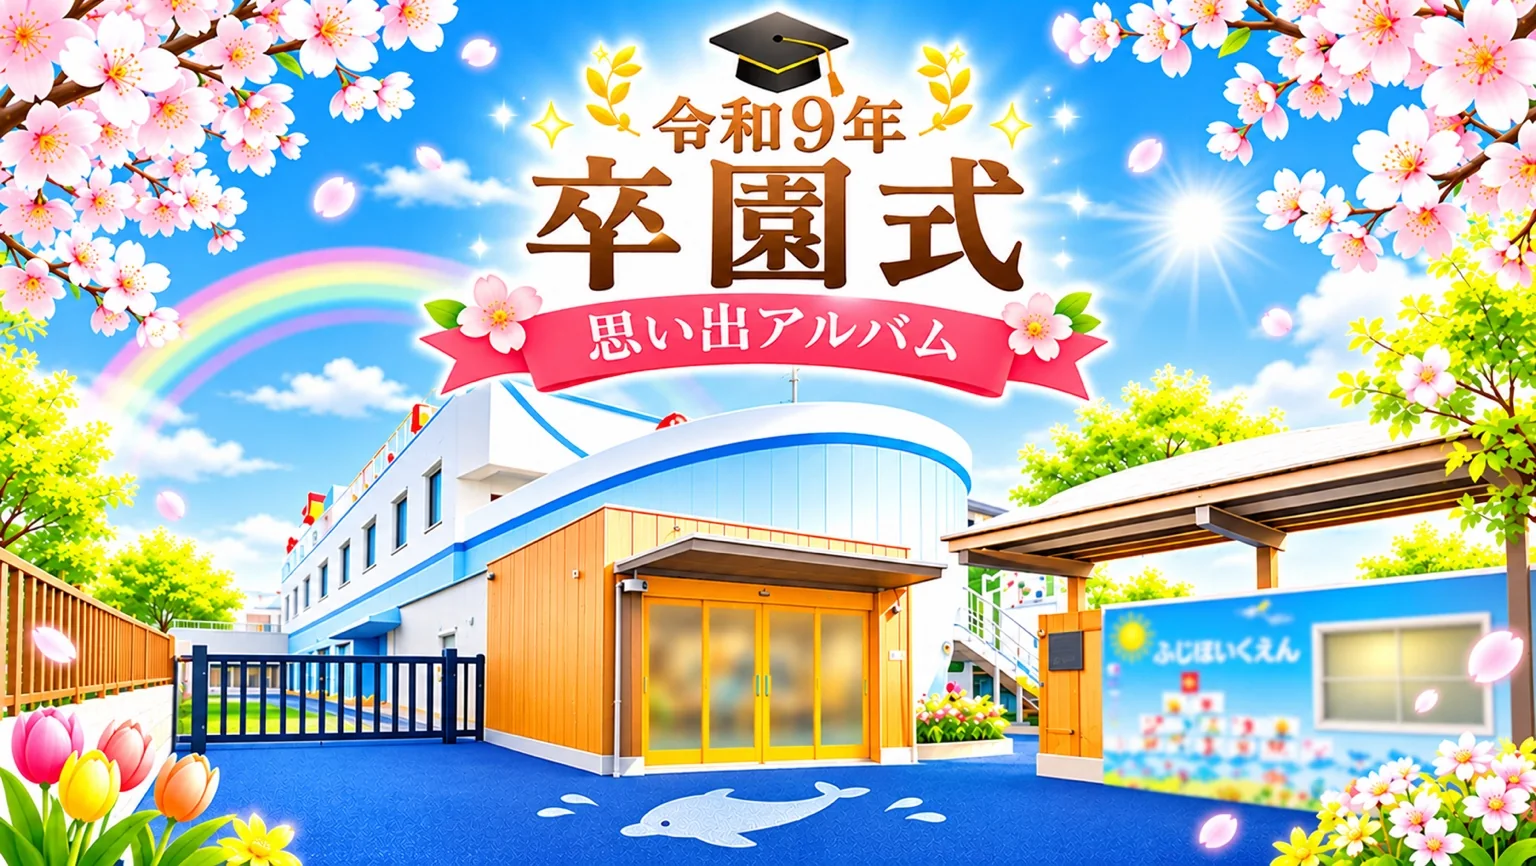
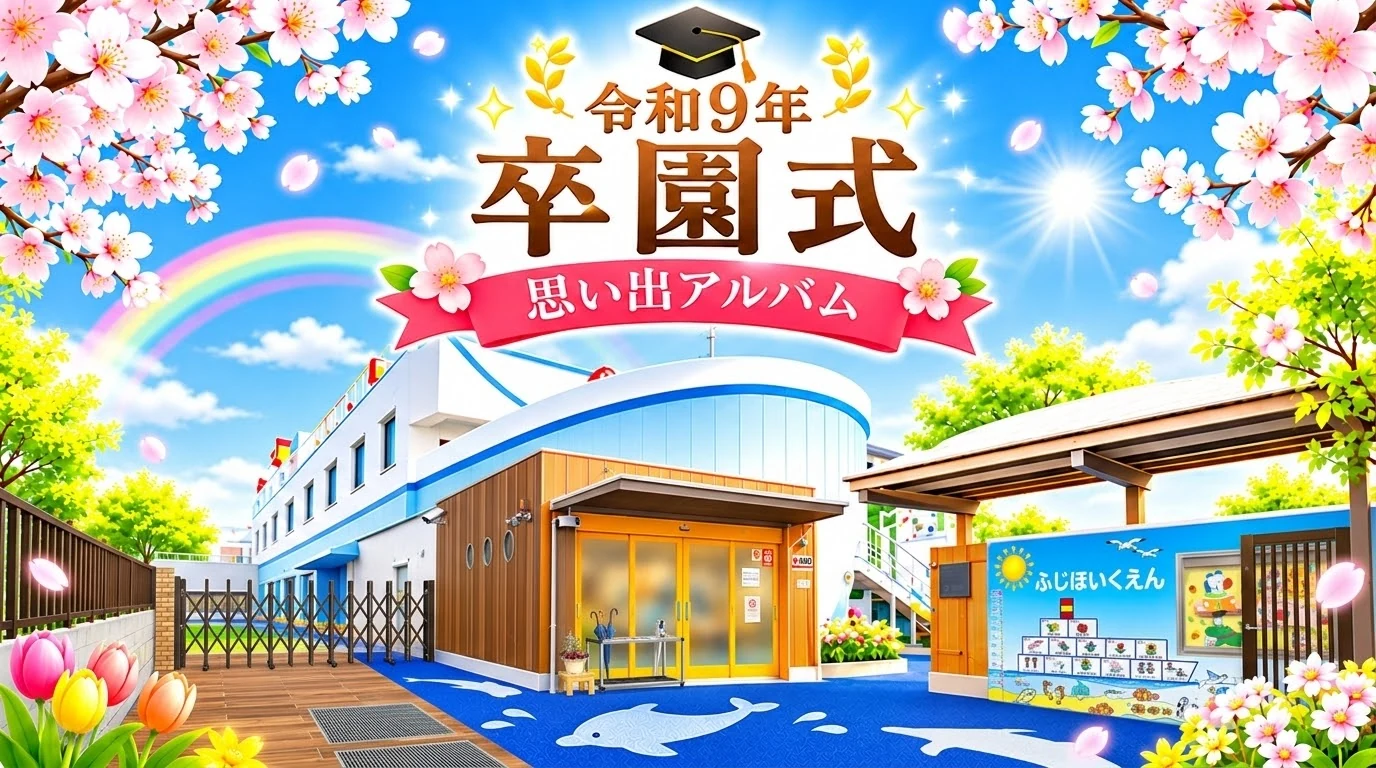
Use the updated Fuji nursery artwork in the movie app

diff --git a/src/App.tsx b/src/App.tsx
@@ -449,13 +449,14 @@ useEffect(()=>{if(!playing)stopMusic()},[playing]);
 useEffect(()=>{if(!playing)return;const isVideo=phase==='photos'&&photos[playIndex]?.kind==='video';const pause=pauseBgmDuringVideo&&isVideo;if(audioRef.current){if(pause)audioRef.current.pause();else void audioRef.current.play().catch(()=>{})}if(soundCtx.current){if(pause)void soundCtx.current.suspend();else void soundCtx.current.resume()}},[playing,phase,playIndex,pauseBgmDuringVideo,photos]);
 
 
+const graduationArtwork = new URL('../fuji-graduation-opening.webp', import.meta.url).href;
 const titleBanner = new URL('../omoide-movie-title.webp', import.meta.url).href;
 return <main className={step==='home'?'theaterHome':'theaterEditor'}>{step!=='home'?<header><img className="homeArtwork" src={titleBanner} width={1584} height={672} alt="おもいでムービー。写真が、一本の動画になる。" onLoad={e=>e.currentTarget.classList.add('loaded')}/><div className="homeCurtain left"/><div className="homeCurtain right"/><div className="brand"><span className="homeCamera">🎥</span>おもいでムービー</div><div className="subtitle">写真が、一本の動画になる。</div></header>:null}
 {step==='home'?<section className="graduationHome">
   <div className="graduationPoster">
-    <img src={import.meta.env.BASE_URL+'artwork/graduation-home-cover.webp'} width={1086} height={1448} alt="卒園ムービー。みんなの思い出を、ひとつに。令和9年卒園式の思い出アルバム。" fetchPriority="high"/>
-    <button type="button" className="graduationPosterAction" aria-label="ムービーを作る" disabled={draftBusy} onClick={newProject}/>
+    <img src={graduationArtwork} width={1376} height={768} alt="令和9年 卒園式 思い出アルバム。桜と虹の下にふじほいくえんの園庭。" fetchPriority="high"/>
   </div>
+  <button type="button" className="primary graduationPosterAction" disabled={draftBusy} onClick={newProject}>ムービーを作る</button>
   {projects.length>0?<div className="draftBox"><h3>📁 保存した作品（{projects.length}件）</h3><div className="projectList">{projects.map(p=><div className="projectCard" key={p.id}>{thumbUrls[p.id]?<img src={thumbUrls[p.id]} alt="作品の表紙"/>:<div className="projectFallback">🎬</div>}<div className="projectDetail"><strong>{p.title}</strong><small>{p.photoCount}枚 · {new Date(p.savedAt).toLocaleString('ja-JP')}</small><div className="projectButtons"><button onClick={()=>restoreProject(p.id)} disabled={draftBusy}>編集する</button><button onClick={()=>copyProject(p.id)} disabled={draftBusy}>複製</button><button onClick={()=>eraseProject(p.id)} disabled={draftBusy}>削除</button></div></div></div>)}</div></div>:null}{draftInfo?<p className="note" role="status">{draftInfo}</p>:null}</section>:null}
 {step==='edit'?<section className="panel"><div className="sectionHeading"><h2>ムービーを作成</h2></div><nav className="editSteps" aria-label="編集の手順">{([['opening','① オープニング'],['main','② 本編'],['ending','③ エンディング'],['finish','④ 完成・保存']] as const).map(([key,label])=><button key={key} className={editPage===key?'active':''} aria-current={editPage===key?'step':undefined} onClick={()=>{setPlaying(false);setEditPage(key)}}>{label}</button>)}</nav><section className="sharedPreview"><h3>{openingStill?'🎬 オープニングプレビュー':endingStill?'🌷 エンディングプレビュー':'🎥 全体プレビュー'}</h3><div className={'preview '+aspect}><div className={'previewFrame'+(openingStill?' openingStill':'')}>
 {playing&&phase==='photos'&&transitionEffect==='page'&&photos.length>0&&((playIndex===0&&opening==='album')||photos[playIndex-1])?<div key={'turn-'+sceneKey} className="albumFullPageTurn" aria-hidden="true">{playIndex===0?<div className="albumTurnTitlePage"><span>{title}</span></div>:<div className="albumTurnPreviousPage"><div className="albumTurnPhotoClip">{photos[playIndex-1].kind==='video'?<div className="albumTurnVideoPlaceholder">🎞</div>:<img src={photos[playIndex-1].url} alt="" style={{transform:'scale('+(photos[playIndex-1].zoom??1)+') translate('+(photos[playIndex-1].offsetX??0)+'%,'+(photos[playIndex-1].offsetY??0)+'%)'}}/>}</div>{photos[playIndex-1].caption?<div className="albumTurnCaption" style={{left:(photos[playIndex-1].captionX??50)+'%',top:(photos[playIndex-1].captionY??83)+'%',fontFamily:photos[playIndex-1].captionFont==='cursive'?'Yomogi, cursive':photos[playIndex-1].captionFont??'sans-serif',fontSize:(photos[playIndex-1].captionSize??22)+'px',fontWeight:photos[playIndex-1].captionWeight??700,color:photos[playIndex-1].captionColor??'#fff',background:photos[playIndex-1].captionBackground?'rgba(0,0,0,.58)':'transparent'}}>{photos[playIndex-1].caption}</div>:null}</div>}</div>:null}
@@ -471,7 +472,7 @@ return <main className={step==='home'?'theaterHome':'theaterEditor'}>{step!=='ho
 {!titleCardStill&&(!playing||phase==='photos')&&shownSticker!=='none'?<div className="previewSticker" aria-hidden="true">{symbols[shownSticker]}</div>:null}
 {!titleCardStill&&activeSubtitle&&(!playing||phase==='photos')?<div className="timedSubtitle" style={{color:activePhoto.subtitleColor??'#ffffff',fontSize:(activePhoto.subtitleSize??22)+'px',WebkitTextStroke:'0.5px '+(activePhoto.subtitleOutline??'#202020'),textShadow:'-1px -1px 0 '+(activePhoto.subtitleOutline??'#202020')+', 1px 1px 0 '+(activePhoto.subtitleOutline??'#202020')}}>{activeSubtitle.text}</div>:null}
 {!titleCardStill&&activePhoto?.caption&&(!playing||phase==='photos')?<div key={activePhoto.id+'-'+sceneKey} className={'photoCaption '+(editTool==='text'?'draggableCaption':'')+(playing&&phase==='photos'?' captionMotion-'+(activePhoto.captionMotion??'none'):'')} style={{left:(activePhoto.captionX??50)+'%',top:(activePhoto.captionY??83)+'%',bottom:'auto',right:'auto',fontFamily:activePhoto.captionFont==='cursive'?'Yomogi, cursive':activePhoto.captionFont??'sans-serif',color:activePhoto.captionColor??'#ffffff',fontSize:(activePhoto.captionSize??22)+'px',fontWeight:activePhoto.captionWeight??700,textShadow:'none',background:activePhoto.captionBackground?'rgba(0,0,0,.58)':'transparent'}} onPointerDown={e=>{if(editTool==='text')beginDrag(e,'caption')}} onPointerMove={moveDrag} onPointerUp={endDrag} onPointerCancel={endDrag}>{activePhoto.captionOutline?<span aria-hidden="true" className="captionOutlineLayer" style={{WebkitTextStroke:((activePhoto.captionWeight??700)>=900?'3.2px ':(activePhoto.captionWeight??700)>=700?'2.2px ':'1.2px ')+(activePhoto.captionOutlineColor??'#222222')}}>{activePhoto.caption}</span>:null}<span className="captionFillLayer" style={{WebkitTextStroke:(activePhoto.captionWeight??700)>=900?'1.35px '+(activePhoto.captionColor??'#ffffff'):(activePhoto.captionWeight??700)>=700?'.65px '+(activePhoto.captionColor??'#ffffff'):'0px transparent',paintOrder:'stroke fill'}}>{activePhoto.caption}</span></div>:null}
-{showOpening && opening==='fuji_graduation' ? <img className="openingTitleArtwork" src={new URL('../fuji-graduation-opening.webp', import.meta.url).href} alt="令和9年 卒園式 思い出アルバム"/> : null}
+{showOpening && opening==='fuji_graduation' ? <img className="openingTitleArtwork" src={graduationArtwork} alt="令和9年 卒園式 思い出アルバム"/> : null}
 {showOpening&&opening!=='curtain'&&opening!=='album'&&opening!=='fuji_graduation'?<div key={'opening-'+sceneKey} className={'openingOverlay opening-'+opening}>{(['gold_light','floral_wedding','sakura_tunnel','balloon_party','starry_story','retro_cinema'].includes(opening))?<><div className="openingPhotoBackground" style={{backgroundImage:`url(${import.meta.env.BASE_URL}${opening}.png)`}}/><div className={"openingPhotoParticles"+(opening==='sakura_tunnel'?" sakuraPetalParticles":"")} aria-hidden="true">{Array.from({length:14},(_,i)=><span key={i} style={{left:(i*37%97)+'%',top:(i*23%91)+'%',animationDelay:-(i*.43)+'s'}}>{opening==='sakura_tunnel'?' ':opening==='balloon_party'?'🎈':opening==='floral_wedding'?'✿':opening==='retro_cinema'?'✦':opening==='starry_story'?'✧':'✦'}</span>)}</div></>:null}{opening==='countdown'?(!openingStill||!title.trim())&&<div className="countdownDial" aria-label="3、2、1とカウントダウン"><span className="countdownNumber countdownThree">3</span><span className="countdownNumber countdownTwo">2</span><span className="countdownNumber countdownOne">1</span><span className="countdownSweep"/></div>:<div className="openingOrnaments" aria-hidden="true">{opening==='sparkle'?'✦ ✧ ✨ ✦ ✧':opening==='sakura'?'🌸 🌸 🌸 🌸':opening==='rainbow'?'🌈 ☁ ☁':'✧'}</div>}<div className="openingHeading">{title}</div></div>:null}
 </div></div><div className="actions" role="group" aria-label="写真・動画の追加">
 <label className={'mediaPicker'+(photos.length===0?' primary':'')}>

diff --git a/src/style.css b/src/style.css
@@ -337,20 +337,19 @@ input[type="file"][hidden]{display:none!important}
   width: 100%;
   height: auto;
 }
-.graduationPoster .graduationPosterAction {
-  position: absolute;
-  inset: 69.1% 10% auto;
-  height: 9.6%;
-  min-height: 44px;
-  padding: 0;
-  border: 0;
+.graduationHome .graduationPosterAction {
+  display: block;
+  width: 100%;
+  min-height: 48px;
+  margin: 16px 0 0;
+  border: 2px solid #f6bdc6;
   border-radius: 100px;
-  background: transparent;
+  background: linear-gradient(#c23662, #a91449);
+  color: #fff;
+  font-weight: 800;
   touch-action: manipulation;
 }
-.graduationPoster .graduationPosterAction:active { background: #50001c24; }
-.graduationPoster .graduationPosterAction:disabled { background: #fff8; }
-.graduationPoster .graduationPosterAction:focus-visible { outline-offset: -4px; }
+.graduationHome .graduationPosterAction:disabled { opacity: .6; }
 .graduationHome .draftBox {
   border: 1px solid #edc9ac;
   background: #fff8ef;
